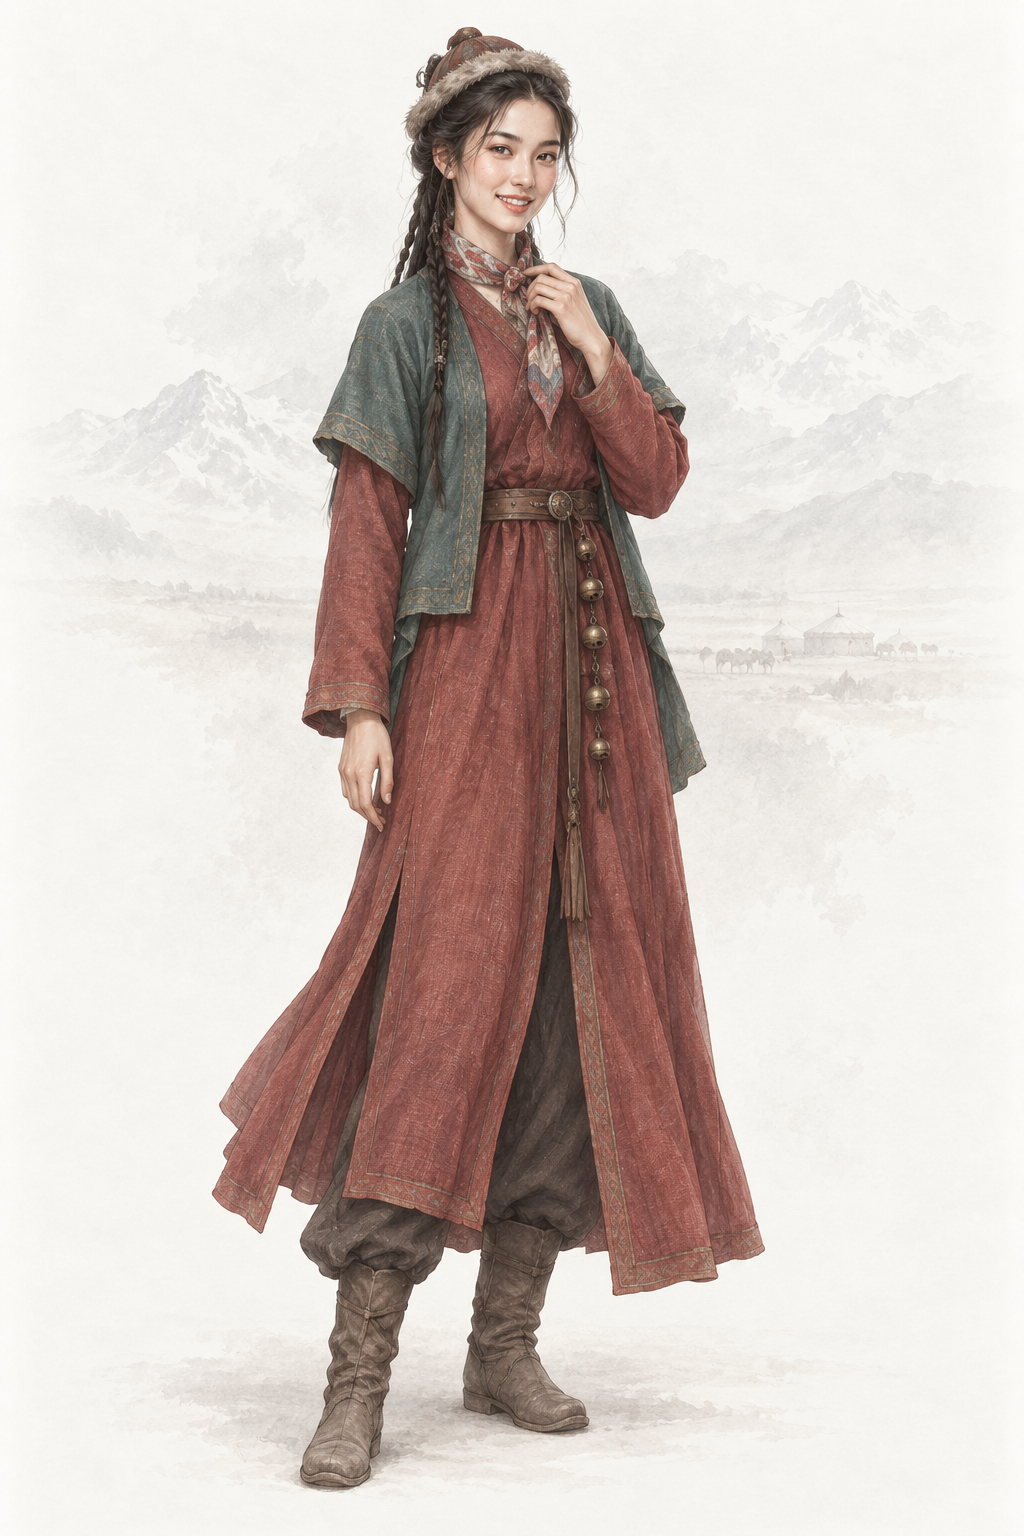
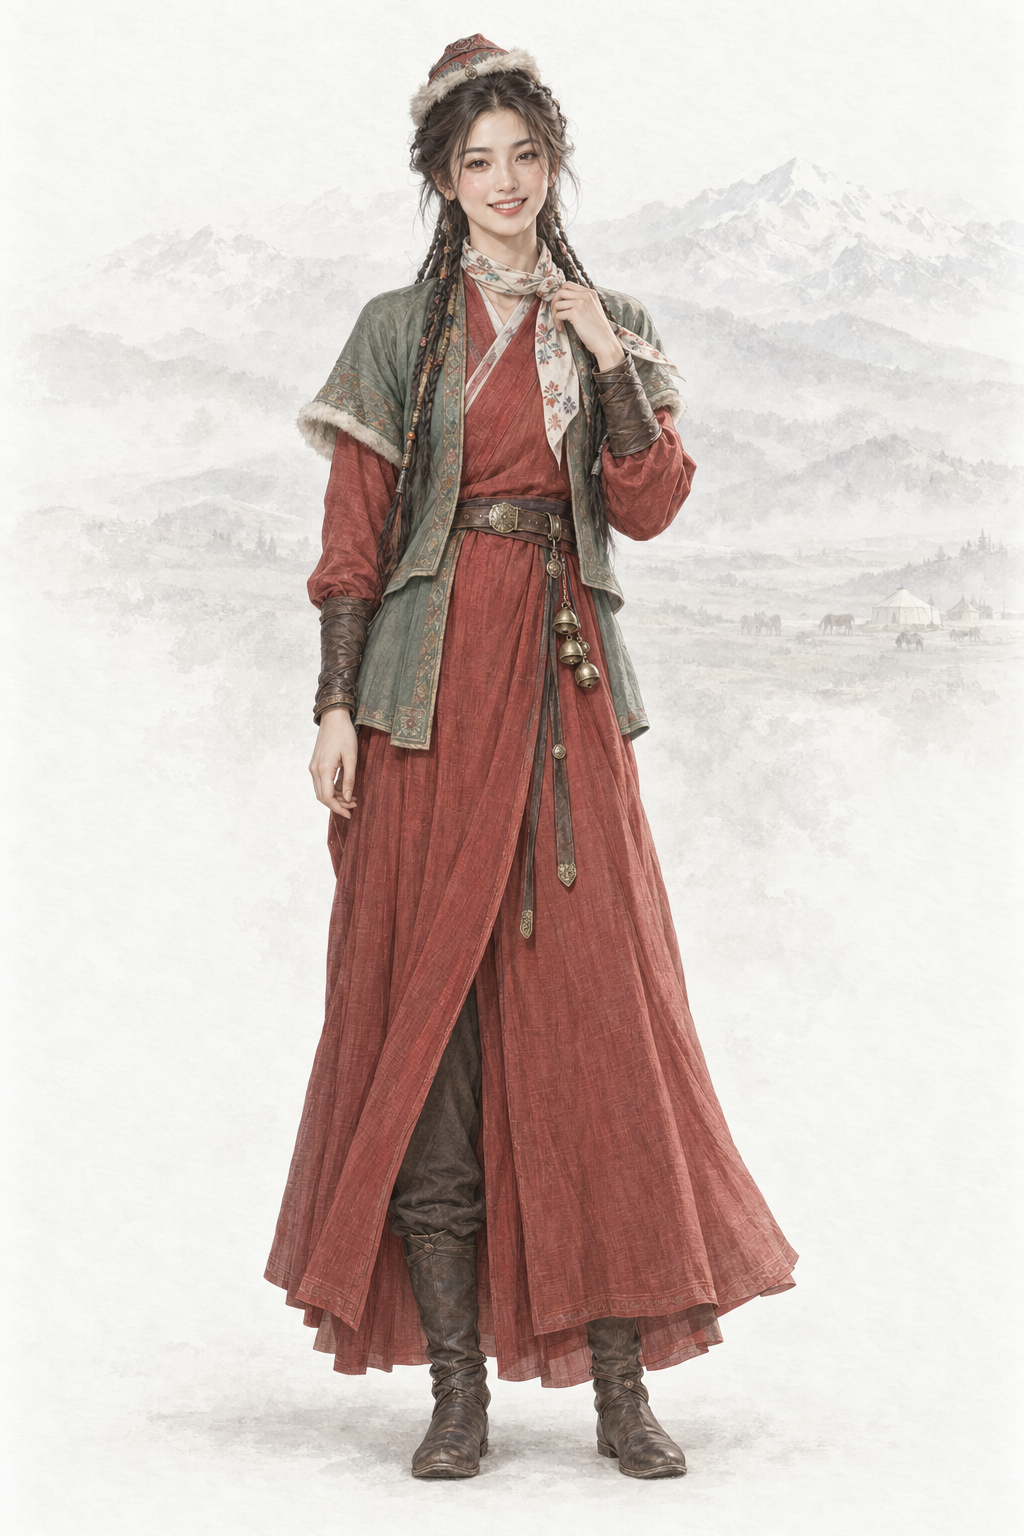
assets(character): por_npc_aman__ch10_base 阿曼（codex · AR-32 文字 + 基线）
本人无可用剧照或可靠游戏头像，只用文字与两张同性别基线重出；提示词写回、frontmatter 加 classic_ref。

diff --git a/assets/default/prompts/characters/ch10-baima/npc_aman.md b/assets/default/prompts/characters/ch10-baima/npc_aman.md
@@ -20,14 +20,38 @@ references:
 status: redo
 realism_revision: user_character_realism_20261001
 redo_reason: "白马改唐代（DES-baima-tang 合入）：旧图是清初剃发留辫 / 瓜皮帽 / 清式袍褂，且男女各自同脸；按唐代名录 §2 的发式、服色与标志物重出，脸部按 C 组报告 §1 区分。"
+codex_prompt_rev: 2026-10-02
 reference_upload:
 - assets/default/baseline/character/female/ref_npc_wangyuyan__ch01_base01.png
-codex_prompt_rev: 2026-10-02
+- assets/default/baseline/character/female/ref_npc_xiaolongnv__ch03_base01.png
+classic_ref: "无（白马已改唐代 AR-26，不用清代剧照；《金庸群侠传》里没有可靠的本人头像，只用文字与基线，按 docs/design/catalog/npcs-ch10-baima.md §2 与 chapters/10-baima.md §8.9 的唐代设定）"
 ---
 
 # 阿曼 · 人物写实修正
 
 ## Gemini 提示词
+
+> 2026-10-02 AR-32 重出（8 号出图员，codex exec · image_gen）：本人没有可用的经典剧照或可靠游戏头像，只用文字与两张同性别画风基线（缩小版 JPEG，放在最后上传）；按原著与设定重写人物描写，去 AI 味、禁止幼态。上一版保留在下一节作历史。
+
+```text
+生成一张 2:3 竖幅全身人物立绘：单人、单一视角、完整全身——头顶、双手、双脚和手中器物的两端都在画面内，四周留出自然空白；人物站姿自然，身体基本朝向正面，头部端正（不歪头、不仰不俯），镜头平视。
+【参考图】随提示词上传的两张参考图都是本项目的立绘画风基线：画风、用色、光线、质感和暖浅灰纸底加淡水墨背景以它们为准；它们只管画风，不取长相、年龄、发型、服饰和姿势。人物的长相和造型完全按下面的文字来画。
+【画风】写实手绘古风人物插画，与本项目写实武侠角色立绘同一画风，像功力深厚的画师用细腻笔触画出的真实人物。手绘插画质感，不是 CG 渲染：不要过度光滑的皮肤、完美对称的五官、塑料高光、过度锐利的发丝；保留自然的笔触和细微不完美。皮肤有真实质感——细小毛孔、细纹、晒痕和自然的左右不对称，不磨皮、不油亮；头发是一缕缕自然的发丝和少量碎发；布料看得出经纬纹理、厚薄和自然垂坠的褶皱，带穿用过的轻微旧化，但完整不破烂；整体设色低饱和、沉稳；柔和的自然光从左上方照来，明暗过渡自然，不打舞台光、轮廓光或美颜柔光。不是照片，不是三维渲染，不是动漫或游戏 CG，也不是油画（没有厚涂笔触和画布纹理）。
+【背景】不透明的暖浅灰色纸底，只在远处有极淡的水墨远山（西域雪山与草坡的远影）和薄雾，大面积留白；人物与背景明暗分明、轮廓边缘干净完整（后续要自动抠图），水墨和纸纹只在背景里，不侵入人物和衣服；脚下只有很淡的一点接触阴影。
+【人物】阿曼，《白马啸西风》中铁延部（唐代庭州草原上的牧部）骑手车尔库的女儿，草原上最美的姑娘，与苏普相爱。
+【时代】唐代武周长安年间（约 702 年）的西域，西州—庭州一带（游戏设定）。服饰按唐代：汉人束发、戴软幞头或裹巾，穿圆领窄袖袍、半臂，骑行可穿翻领胡服；草原牧部（铁延部，突厥—铁勒背景的虚构牧部）穿翻领窄袖袍、长裤、软靴，编辫、戴毡帽。
+【年龄与体态】约二十岁的成年年轻女子，身材修长匀称、成人比例（约七头身），有常年骑马的挺拔轻盈。
+【经典造型】「草原第一美女」：许多细辫盘在小毡帽后、石榴红窄袖袍配青绿半臂、颈间一条小花巾、腰间一串小铜铃；明朗大方、笑容灿烂，美丽动人。
+【面容】偏长的鹅蛋脸（不是圆脸），颧骨略高而柔和；眉毛浓黑修长、眉尾微扬；眼睛明亮、眼型细长微挑，浅浅的双眼皮，深褐色的眼珠，睫毛浓密；鼻梁挺秀；嘴唇饱满、笑容明朗；健康的浅麦色皮肤透着高原红晕，有真实的皮肤纹理。明艳大方，是成熟女子的美，不是娃娃脸。
+【发式】乌黑长发编成许多细辫，盘在脑后，戴一顶镶毛边的小毡帽。
+【服饰】石榴红色翻领窄袖长袍（袍长及踝，便于骑马），外罩一件青绿色短半臂，腰束细皮带，深色长裤，软皮靴；颈间系一条小花巾。
+【道具】腰带上挂着一串小铜铃；一手轻提花巾一角，一手自然垂下。
+【姿态与神情】笑着站立，身体朝向正面，大方地看向前方。
+【不要】画面里不要任何文字、题款、印章、签名、水印、边框、分格或多视图；不要第二个人；不要幼态（童颜、娃娃脸、婴儿肥、儿童或少年身材、大头小身）；不要塑料感皮肤、磨皮美颜、网红脸（尖下巴大眼高鼻的模板脸）、过度对称、浓妆、偶像式打光、蜡像感；不要照片质感、三维渲染或动漫大眼；不要歪头、斜镜头；不要多指、缺指（设定的伤残除外）、手与器物粘连或悬空；衣襟必须右衽（穿着者的左襟压在右襟上），不要左衽（设定为少数民族服制的除外），不要水平镜像；不要现代物品、发光特效、法阵或能量光。不要清代剃发留辫、瓜皮帽、马褂、旗装或补服；不要明代网巾、宋代直脚幞头；不要现代民族礼服、伊斯兰式缠头或面纱、清真寺等后世宗教符号；不要用夸张的五官或肤色来表现族属。不要圆脸大眼的娃娃脸；不要和李文秀同一张脸。
+【画风基线】随提示词上传的参考图里，最后两张是本项目的立绘画风基线：只参考它们的画风、用色、光线、质感和暖浅灰纸底加淡水墨的背景处理，整体画风必须与它们一致——精细写实的数字手绘插画，不是油画，不要厚涂笔触和画布纹理。基线图只取画风，不取长相：不要照搬基线图里人物的长相、年龄、发型、服饰和姿势。
+```
+
+## 白马唐代化版 Gemini 提示词（2026-10-02 凌晨，人物线 2 号；AR-32 重出之前，历史，不再用于出图）
 
 > 2026-10-02 白马唐代化重出（人物线 2 号）：依 `docs/design/catalog/npcs-ch10-baima.md` §2（逐人发式 / 服色 / 标志物）、`docs/design/chapters/10-baima.md` §8.9（唐代视觉语法）与 `tools/agents/reports/REVIEW-portraits-C-ch10-14.md` §1（脸部要点）改写；一律成年、去 AI 味。本轮出图只用下面这一段；下文旧稿是清初设定，只作历史与考据保留，不再用于出图。
 
